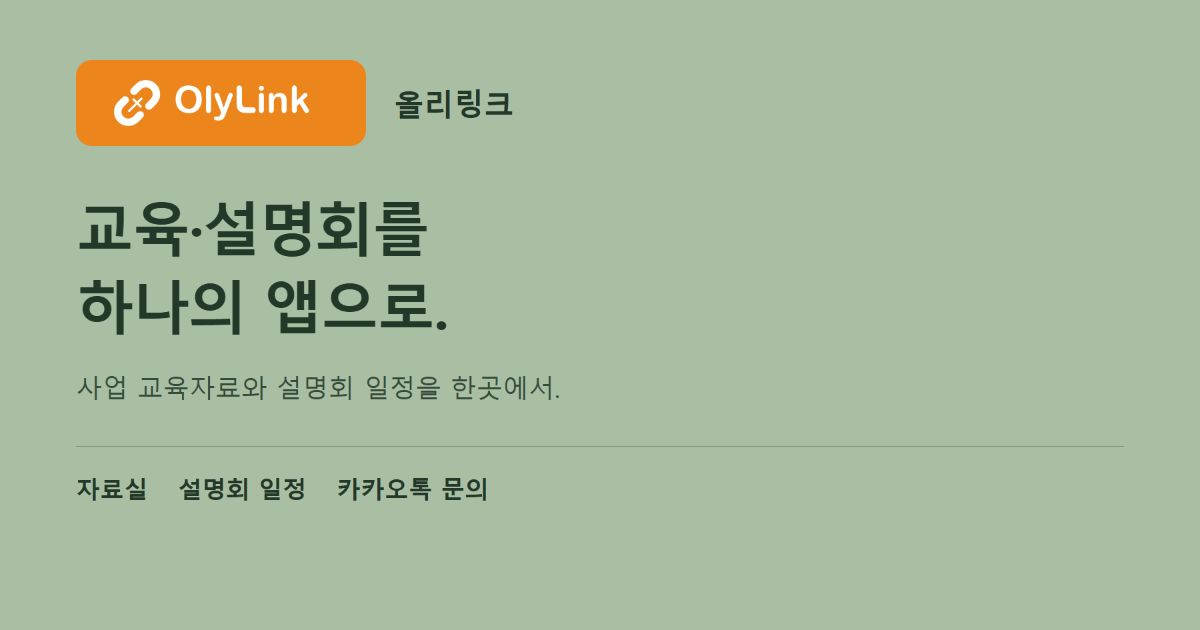
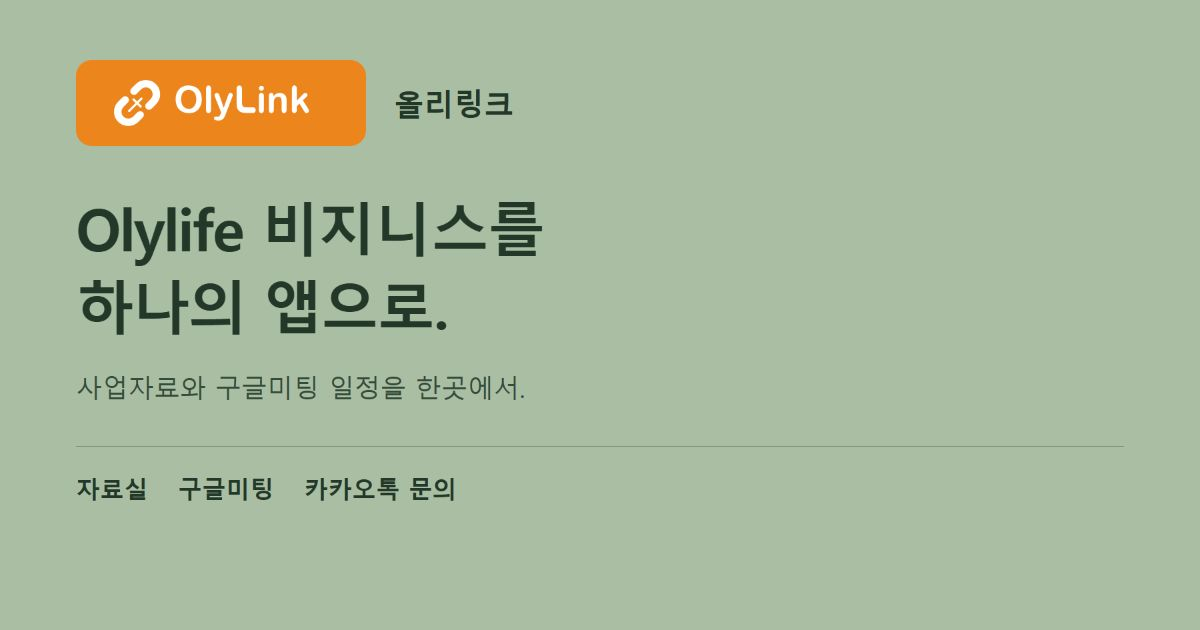
Fix Olylife sharing title and preview image
Match Open Graph metadata and the share image to the approved Olylife business heading. Add a fresh install sharing URL with a general-user APK download button and a new image URL. Keep the existing APK, database permissions, and other repository files unchanged.

Changed region(s): [[0.0617, 0.3016, 0.4625, 0.4222], [0.0925, 0.573, 0.4625, 0.6333], [0.1542, 0.754, 0.4008, 0.8143]]

diff --git a/install.html b/install.html
@@ -1,0 +1,264 @@
+<!doctype html><html lang="ko" prefix="og: https://ogp.me/ns#"><head>
+<meta charset="utf-8"><meta name="viewport" content="width=device-width,initial-scale=1">
+<meta name="application-name" content="OlyLINK"><meta name="apple-mobile-web-app-title" content="OlyLINK"><title>OlyLINK</title>
+<meta name="description" content="올리링크에서 Olylife 비지니스 자료와 구글미팅 일정을 살펴보세요. 카카오톡으로 궁금한 점을 문의할 수 있습니다.">
+<link rel="canonical" href="https://jeenyfca-sketch.github.io/olylifebiz/install.html">
+<meta property="og:type" content="website">
+<meta property="og:site_name" content="OlyLINK 올리링크">
+<meta property="og:title" content="OlyLINK 올리링크 | Olylife 비지니스를 하나의 앱으로.">
+<meta property="og:description" content="Olylife 비지니스 자료와 구글미팅 일정을 한곳에서. 자료를 살펴보고 카카오톡으로 문의하세요.">
+<meta property="og:url" content="https://jeenyfca-sketch.github.io/olylifebiz/install.html">
+<meta property="og:locale" content="ko_KR">
+<meta property="og:image" content="https://jeenyfca-sketch.github.io/olylifebiz/olylink-share-v2.jpg">
+<meta property="og:image:type" content="image/jpeg">
+<meta property="og:image:width" content="1200"><meta property="og:image:height" content="630">
+<meta property="og:image:alt" content="OlyLINK 올리링크. Olylife 비지니스를 하나의 앱으로. 자료실, 구글미팅, 카카오톡 문의.">
+<meta name="twitter:card" content="summary_large_image">
+<meta name="twitter:title" content="OlyLINK 올리링크 | Olylife 비지니스를 하나의 앱으로.">
+<meta name="twitter:description" content="Olylife 비지니스 자료와 구글미팅 일정을 한곳에서. 자료를 살펴보고 카카오톡으로 문의하세요.">
+<meta name="twitter:image" content="https://jeenyfca-sketch.github.io/olylifebiz/olylink-share-v2.jpg">
+<meta name="twitter:image:alt" content="OlyLINK 올리링크. Olylife 비지니스를 하나의 앱으로.">
+</head><body><div id="ulilife-preview">
+  <div class="ul-stage">
+    
+    <section class="ul-phone" aria-label="OlyLINK 올리링크 모바일 화면">
+      <header><div class="ul-brand-grid"><div class="ul-brand-group"><div class="ul-logo ul-brand"><img src="./olylink-logo.svg?v=7" alt="OlyLink 로고" width="1981" height="533"></div></div><div class="ul-brand-group"><div class="ul-logo"><img src="./olylife-display.svg" alt="OlyLife 로고" width="1981" height="533"></div></div>
+        <div class="ul-contact-actions">
+          <a class="ul-kakao-link ul-direct-inquiry" href="http://qr.kakao.com/talk/AiWINIcz6O_I_uFfPNyRaI.FqXY-" target="_blank" rel="noopener noreferrer">카카오톡 문의</a>
+          <button type="button" id="ul-kakao-qr-toggle" aria-expanded="false" aria-controls="ul-kakao-qr-panel">QR 보기</button>
+        </div>
+        <div id="ul-kakao-qr-panel" hidden>
+          <img class="ul-kakao-qr" src="./seean-kakao-qr.png" width="413" height="413" alt="카카오톡 문의 QR코드" loading="lazy">
+          <p>휴대폰 카메라로 QR코드를 스캔해 주세요.</p>
+        </div>
+      </div></header>
+      <nav class="ul-app-nav" aria-label="앱 메뉴">
+        <button type="button" data-section="home" aria-pressed="true">홈</button>
+        <button type="button" data-section="experiences" id="ul-cases-nav" hidden aria-pressed="false" aria-label="글로벌 체험 사례"><span>글로벌</span><br><span>체험 사례</span></button>
+        <button type="button" data-section="library" aria-pressed="false">자료실</button>
+        <button type="button" data-section="meetings" id="ul-meetings-nav" aria-pressed="false" aria-label="구글미팅">구글미팅</button>
+      <button type="button" data-section="admin" id="ul-admin-nav" hidden aria-pressed="false">자료 관리</button><button type="button" data-section="meeting-admin" id="ul-meeting-admin-nav" hidden aria-pressed="false" aria-label="구글 미팅 관리"><span>구글 미팅</span><br><span>관리</span></button></nav>
+      <main><label><span>언어</span><select id="ul-locale"><option value="ko">한국어</option><option value="en">English</option><option value="ja">日本語</option><option value="zh">中文</option></select></label>
+        <div data-panel="home">
+          <div class="ul-kicker">OlyLINK SYSTEM</div>
+          <h1 id="ul-home-title" class="ul-home-title">Olylife 비지니스를 하나의 앱으로.</h1>
+          <p class="ul-home-lead">찾아보고, 배우고, 공유하고.</p>
+          <p class="ul-home-intro">사업의 첫 만남부터 함께하는 앱, 올리링크.</p>
+          <a class="ul-kakao-link ul-home-cta" href="./olylink.apk" download="olylink.apk">안드로이드 앱 설치</a><p class="ul-sub">안드로이드 10 이상 · APK 파일 다운로드</p><section class="ul-start-guide" aria-labelledby="ul-start-title">
+            <h2 id="ul-start-title">처음 오셨나요?</h2>
+            <p>자료실에서 사업 소개를 살펴보세요. 설명회에 참여하거나 카카오톡으로 궁금한 점을 물어볼 수 있습니다.</p>
+            <button type="button" data-section="library" class="ul-primary">자료실부터 둘러보기</button>
+          </section>
+          <div class="ul-home-cards">
+            <button type="button" data-section="experiences" id="ul-home-cases" hidden class="ul-home-card"><span class="ul-home-icon" aria-hidden="true">🌐</span><span><strong>글로벌 체험 사례를 한눈에</strong><span class="ul-home-description">전 세계의 체험 이야기를 관심 주제별로.</span></span><span aria-hidden="true">›</span></button>
+            <button type="button" data-section="library" class="ul-home-card"><span class="ul-home-icon" aria-hidden="true">📚</span><span><strong>연구와 교육자료를 손안에</strong><span class="ul-home-description">연구논문·임상자료를 바탕으로 한 사업 교육자료까지.</span></span><span aria-hidden="true">›</span></button>
+            <button type="button" data-section="meetings" class="ul-home-card"><span class="ul-home-icon" aria-hidden="true">💻</span><span><strong>온라인 설명회도 앱에서</strong><span class="ul-home-description">일정을 확인하고 구글 미팅으로 바로 참여.</span></span><span aria-hidden="true">›</span></button>
+          </div>
+          <p class="ul-home-flow">앱으로 알아보고 → 톡으로 연결하고 → 함께 사업을 시작하세요.</p>
+        </div>
+        <div data-panel="library" hidden>
+          <div class="ul-kicker">배우고, 이해하고, 함께 성장하기</div>
+          <h2>자료실</h2>
+          <label class="ul-search"><i data-lucide="search" aria-hidden="true"></i><input id="ul-search" type="search" aria-label="제품명 또는 강의 제목 검색" placeholder="제품명 또는 강의 제목 검색"></label>
+          
+          <div class="ul-listhead"><span id="ul-count" aria-live="polite"></span></div>
+          <div id="ul-list"></div>
+          <section id="ul-detail" hidden aria-label="자료 상세"></section>
+        </div>
+        <div data-panel="meetings" hidden>
+          <div class="ul-kicker">함께 배우는 온라인 교육</div>
+          <h2>구글미팅</h2>
+          <div id="ul-meetings" aria-live="polite"></div>
+        </div>
+        <div data-panel="experiences" hidden>
+ <h2>글로벌 체험 사례</h2>
+ <div id="ul-case-tools" hidden>
+   <p class="ul-admin-note">관리자 전용 · 가져온 사례는 비공개로 저장됩니다.</p>
+   <label>사례 JSON 가져오기<input id="ul-case-import" type="file" accept=".json,application/json"></label>
+   <label id="ul-subtitle-catalog-label" hidden>자막 자료 등록 · 관리자 전용<input id="ul-subtitle-catalog-import" type="file" accept=".json,application/json"></label>
+   <label id="ul-subtitle-import-label" hidden>자막 영상 등록 · 관리자 전용<input id="ul-subtitle-media-import" type="file" accept="video/mp4,.mp4" multiple></label>
+   <p id="ul-subtitle-import-notice" role="status"></p>
+   <button id="ul-case-new" type="button">새 사례 등록</button>
+   <form id="ul-case-form" hidden>
+     <h3>사례 등록·수정</h3>
+     <label>제목<input name="title" required maxlength="300"></label>
+     <label>한국어 요약<textarea name="summary" rows="5" maxlength="20000" required></textarea></label>
+     <label>국가<input name="country" maxlength="100"></label>
+     <label>원문 언어<input name="language" maxlength="100"></label>
+     <label>주제 (쉼표로 구분)<input name="categories" maxlength="3000"></label>
+     <label>자료 유형<select name="media_type"><option value="video">영상 있음</option><option value="document">글 자료</option></select></label>
+     <label>원문 링크<input name="url" type="url" maxlength="2000"></label>
+     <label>영상 링크<input name="video_url" type="url" maxlength="2000"></label>
+     <label>확인 상태<textarea name="review_status" rows="2" maxlength="2000"></textarea></label>
+     <label>공개 범위<select name="visibility"><option value="admin">비공개 · 관리자만</option><option value="public">공개 · 누구나</option></select></label>
+     <p class="ul-sub">공개로 저장하면 요약과 원문 링크가 일반 이용자에게 표시됩니다.</p>
+     <button type="submit">사례 저장</button><button id="ul-case-cancel" type="button">닫기</button>
+   </form>
+   <p id="ul-case-notice" role="status"></p>
+   <label>공개 범위 필터<select id="ul-case-visibility"><option value="">전체</option><option value="admin">관리자 전용</option><option value="public">공개</option></select></label>
+ </div>
+ <div id="ul-experience-categories" class="ul-category-filter" role="group" aria-label="사례 분류"></div>
+ <div id="ul-case-curation" hidden>
+   <p id="ul-case-curation-summary" class="ul-sub" aria-live="polite"></p>
+   <label id="ul-case-curation-label">자료 선택<select id="ul-case-curation-view"><option value="representative">대표 보기</option><option value="candidate">후보 보기</option><option value="all">전체 보기</option></select></label>
+ </div>
+ <label>자료 유형<select id="ul-case-media"><option value="">전체</option><option value="video">영상 있음</option><option value="document">글 자료</option></select></label>
+ <p id="ul-case-count" class="ul-sub" aria-live="polite"></p>
+ <label><span>사례 검색</span><input id="ul-experience-search" type="search" placeholder="제목·국가·요약 검색"></label>
+ <div class="ul-filters"><label><span>국가</span><select id="ul-experience-country"><option value="">전체 국가</option></select></label><label><span>원문 언어</span><select id="ul-experience-language"><option value="">전체 언어</option></select></label></div>
+ <div id="ul-experience-list" aria-live="polite"></div>
+ </div><div data-panel="auth" hidden>
+ <h2 id="ul-auth-title">관리자 로그인</h2>
+ <p id="ul-auth-description" class="ul-sub"></p>
+ <button id="ul-google-login" class="ul-google-login" type="button" hidden>Google 계정으로 로그인</button>
+ <p id="ul-google-help" class="ul-sub" hidden></p>
+ <form id="ul-auth-form"><label id="ul-email-label" hidden>이메일<input name="email" type="email" autocomplete="username"></label><label>비밀번호<input name="password" type="password" minlength="10" maxlength="128" autocomplete="current-password" required></label>
+ <button type="submit" class="ul-primary" id="ul-auth-submit">로그인</button></form>
+ <div id="ul-auth-notice" role="alert"></div></div>
+ <div data-panel="admin" hidden>
+          <div class="ul-kicker">관리자 전용</div><h2>자료 관리</h2><p class="ul-sub">자료를 등록하고 내용을 수정합니다.</p><button id="ul-import-local" type="button" hidden>기존 자료·미팅 가져오기</button><p id="ul-import-notice" role="status"></p>
+          
+          <form id="ul-form">
+            <h3 id="ul-form-title">새 자료 등록</h3>
+            <label>자료 제목<input name="title" required maxlength="100" placeholder="예: 비지니스 플랜"></label>
+            <label>언어<select name="language"><option value="한국어">한국어</option><option value="English">English</option><option value="日本語">日本語</option><option value="中文">中文</option></select></label>
+            <label>자료 설명<textarea name="description" rows="2" placeholder="어떤 내용을 담은 자료인가요?"></textarea></label>
+            <label>출처·근거 범위<textarea name="source" rows="2" placeholder="논문 출처와 설명 범위를 입력하세요."></textarea></label>
+            <label>자료 파일<input name="file" type="file" accept=".pdf,application/pdf"></label>
+            <div id="ul-file-label" class="ul-sub">PDF 최대 15MB · 이 컴퓨터에 저장합니다.</div>
+            <div class="ul-actions"><button class="ul-primary" type="submit" id="ul-save">등록하기</button><button type="button" id="ul-cancel" hidden>수정 취소</button></div>
+          </form>
+          <div id="ul-notice" role="status" aria-live="polite"></div>
+          <h3>등록된 자료</h3><div id="ul-admin-list"></div>
+        </div>
+        <div data-panel="meeting-admin" hidden>
+          <h2>구글 미팅 관리</h2>
+          <form id="ul-meeting-form">
+            <h3 id="ul-meeting-form-title">새 미팅 등록</h3>
+            <label>모임 제목<input name="title" required maxlength="200" placeholder="예: 비즈니스 플랜 설명회"></label>
+            <label>날짜·시간 (한국 기준)<input name="starts" type="datetime-local" required></label>
+            <label>진행 언어<select name="language"><option value="한국어">한국어</option><option value="English">English</option><option value="日本語">日本語</option><option value="中文">中文</option></select></label>
+            <label>구글 미트 참여 링크<input name="link" type="text" inputmode="url" autocapitalize="none" spellcheck="false" maxlength="500" placeholder="meet.google.com/abc-defg-hij"></label>
+            <p class="ul-sub">주소나 회의 코드만 붙여넣으세요. https://는 자동으로 추가됩니다.</p>
+            <p class="ul-sub">링크가 없으면 비워두세요. 나중에 수정할 수 있습니다.</p>
+            <div class="ul-actions"><button type="submit" class="ul-primary" id="ul-meeting-save">등록하기</button><button type="button" id="ul-meeting-cancel" hidden>수정 취소</button></div>
+          </form>
+          <div id="ul-meeting-notice" role="status" aria-live="polite"></div>
+          <h3>등록된 미팅</h3><div id="ul-meeting-admin-list"></div>
+        </div>
+      </main>
+      <footer hidden><button id="ul-user-login" type="button" hidden>로그인</button><button id="ul-login" type="button" hidden>관리자 로그인</button><button id="ul-logout" type="button" hidden>로그아웃</button></footer>
+      <p class="ul-policy-link"><a href="./privacy.html" target="_blank" rel="noopener noreferrer">개인정보 안내</a></p>
+    </section>
+  </div>
+</div>
+<style>
+#ulilife-preview {padding:20px 0;color-scheme:light;font-family:system-ui,'Malgun Gothic',sans-serif;--ul-bg:#a9bea2;--ul-paper:#f8fbf5;--ul-text:#24382a;--ul-muted:#354c3b;--ul-line:#c5d3bf;--ul-green:#2e4934;--ul-on:#ffffff;--ul-soft:#dce8d5;--ul-orange:#f4bf7b;--ul-orange-ink:#3b2b17;--ul-orange-soft:#fff0db;--ul-orange-text:#775022;--ul-radius:18px}
+#ulilife-preview * {box-sizing:border-box}
+#ulilife-preview [hidden] {display:none!important}
+#ulilife-preview .ul-stage {max-width:430px;margin:0 auto;padding:0 12px}
+#ulilife-preview .ul-switch {display:flex;gap:8px;margin-bottom:14px;flex-wrap:wrap}
+#ulilife-preview button {font:inherit;cursor:inherit;min-height:44px;border:1px solid var(--ul-line);border-radius:12px;padding:10px 14px;background:var(--ul-paper);color:var(--ul-text)}
+#ulilife-preview .ul-switch button {flex:1}
+#ulilife-preview .ul-app-nav {display:flex;gap:8px;padding:12px 18px;background:var(--ul-paper);border-bottom:1px solid var(--ul-line)}
+#ulilife-preview .ul-app-nav button {flex:1;min-width:0;font-size:14px}
+#ulilife-preview .ul-app-nav [aria-pressed=true] {background:var(--ul-orange);color:var(--ul-orange-ink);border-color:var(--ul-orange)}
+#ulilife-preview button:disabled {opacity:.65;cursor:default}
+#ulilife-preview .ul-meeting {margin-top:18px}
+#ulilife-preview .ul-schedule-heading {margin:24px 0 12px;line-height:1.5}
+#ulilife-preview .ul-past-meetings {margin-top:24px;border-top:1px solid var(--ul-line);padding-top:12px}
+#ulilife-preview .ul-past-meetings summary {min-height:44px;padding:12px 0;color:var(--ul-text);font-size:14px;cursor:pointer}
+#ulilife-preview .ul-past-meetings summary:focus-visible {outline:3px solid var(--ul-green);outline-offset:3px}
+#ulilife-preview .ul-switch [aria-pressed=true],#ulilife-preview .ul-primary {background:var(--ul-orange);color:var(--ul-orange-ink);border-color:var(--ul-orange)}
+#ulilife-preview .ul-phone {background:var(--ul-bg);color:var(--ul-text);border:1px solid var(--ul-line);border-radius:var(--ul-radius);overflow:hidden}
+#ulilife-preview header {padding:22px 20px 18px;border-bottom:1px solid var(--ul-line);background:var(--ul-paper)}
+#ulilife-preview .ul-logo {display:flex;align-items:center;justify-content:center;width:100%;height:60px;padding:8px 10px;margin:0;background:#8da68b;border-radius:12px}
+#ulilife-preview .ul-logo img {display:block;width:100%;height:100%;max-width:100%;max-height:100%;object-fit:contain}
+#ulilife-preview .ul-brand {margin-bottom:0;background:#ed851d}
+#ulilife-preview .ul-wordmark {display:inline-flex;align-items:center;justify-content:center;flex:1;height:28px;border:1.5px solid currentColor;border-radius:999px;font-size:22px;font-weight:600;line-height:1;letter-spacing:-.6px;padding:0 7px;}
+#ulilife-preview .ul-owner {margin-top:6px;font-size:12px;color:var(--ul-muted)}
+#ulilife-preview main {padding:22px 18px}
+#ulilife-preview h2 {font-size:26px;margin:7px 0 6px;letter-spacing:-1px}
+#ulilife-preview h3 {font-size:16px;margin:0 0 16px}
+#ulilife-preview .ul-kicker {font-size:12px;color:var(--ul-green)}
+#ulilife-preview .ul-sub {font-size:12px;color:var(--ul-muted);margin:0 0 18px;line-height:1.6}
+#ulilife-preview label {display:block;font-size:12px;color:var(--ul-muted);margin-bottom:14px}
+#ulilife-preview input,#ulilife-preview select,#ulilife-preview textarea {display:block;width:100%;min-width:0;font:inherit;font-size:16px;color:var(--ul-text);background:var(--ul-paper);border:1px solid var(--ul-line);padding:12px;border-radius:10px;margin-top:6px}
+#ulilife-preview input::placeholder,#ulilife-preview textarea::placeholder {color:var(--ul-muted);opacity:1}
+#ulilife-preview textarea {resize:vertical}
+#ulilife-preview .ul-search {position:relative;margin-top:22px}
+#ulilife-preview .ul-search i,#ulilife-preview .ul-search svg {position:absolute;left:12px;top:15px;width:18px;height:18px}
+#ulilife-preview .ul-search input {padding-left:40px;font-size:14px;min-height:48px}
+#ulilife-preview .ul-filters {display:grid;grid-template-columns:1fr 1fr;gap:10px}
+#ulilife-preview .ul-listhead {display:flex;justify-content:space-between;font-size:12px;color:var(--ul-muted);margin:10px 0 14px}
+#ulilife-preview .ul-item {background:var(--ul-paper);padding:16px;margin-bottom:12px;border-radius:var(--ul-radius);border:1px solid var(--ul-line)}
+#ulilife-preview .ul-item h3 {margin:8px 0;font-size:16px;line-height:1.5;overflow-wrap:anywhere}
+#ulilife-preview .ul-category-filter {display:flex;flex-wrap:wrap;gap:8px;margin:16px 0;}
+#ulilife-preview .ul-category-filter button {min-height:40px;padding:8px 12px;font-size:13px;}
+#ulilife-preview .ul-category-filter [aria-pressed="true"] {background:var(--ul-orange);border-color:var(--ul-orange);color:var(--ul-orange-ink);}
+#ulilife-preview .ul-case-summary {font-size:14px;line-height:1.75;white-space:pre-line;overflow-wrap:anywhere;}
+#ulilife-preview .ul-meta {font-size:12px;color:var(--ul-muted);line-height:1.6;overflow-wrap:anywhere}
+#ulilife-preview .ul-tag {font-size:11px;display:inline-block;background:var(--ul-orange);padding:4px 7px;border-radius:6px;color:var(--ul-orange-ink)}
+#ulilife-preview .ul-item button {width:100%;margin-top:14px;text-align:center;background:var(--ul-orange);color:var(--ul-orange-ink);border-color:var(--ul-orange)}
+#ulilife-preview .ul-admin-note {padding:10px 12px;background:var(--ul-soft);font-size:12px;border-radius:10px;margin-bottom:18px}
+#ulilife-preview form {background:var(--ul-paper);border:1px solid var(--ul-line);border-radius:var(--ul-radius);padding:16px;margin-bottom:16px}
+#ulilife-preview .ul-actions {display:flex;gap:8px;flex-wrap:wrap}
+#ulilife-preview .ul-actions button {flex:1}
+#ulilife-preview #ul-notice {font-size:13px;line-height:1.6;margin-bottom:16px;color:var(--ul-green)}
+#ulilife-preview #ul-detail {border-top:1px solid var(--ul-line);padding-top:20px;margin-top:24px;overflow-wrap:anywhere}
+#ulilife-preview #ul-detail p {font-size:14px;line-height:1.7}
+#ulilife-preview footer {display:flex;flex-wrap:wrap;justify-content:space-between;gap:8px;padding:16px 18px;background:var(--ul-paper);border-top:1px solid var(--ul-line);font-size:11px;color:var(--ul-muted)}
+#ulilife-preview .ul-vector-mark {display:inline-block;width:22px;height:22px;flex:0 0 22px;background-color:var(--ul-orange);mask-image:url("./mark.svg");mask-size:contain;mask-repeat:no-repeat;mask-position:center;}
+#ulilife-preview .ul-brand-grid {display:grid;grid-template-columns:minmax(0,1fr) minmax(0,1fr);align-items:start;gap:12px;}
+#ulilife-preview .ul-brand-group {min-width:0;}
+#ulilife-preview .ul-brand-caption {display:flex;flex-direction:column;justify-content:center;min-height:44px;margin-top:8px;text-align:center;font-size:12px;font-weight:600;line-height:1.5;letter-spacing:.2px;color:var(--ul-muted);}
+
+#ulilife-preview .ul-contact-actions {grid-column:1/-1;display:grid;grid-template-columns:minmax(0,1fr) minmax(0,1fr);gap:12px}
+#ulilife-preview header .ul-direct-inquiry {display:flex;align-items:center;justify-content:center;width:100%;min-height:44px;margin:0;font-size:13px;font-weight:600;line-height:1.4;padding:8px 12px;}
+#ulilife-preview #ul-kakao-qr-toggle {width:100%;min-width:0;min-height:44px;padding:8px 10px;font-size:13px;line-height:1.4;font-weight:600}
+#ulilife-preview #ul-kakao-qr-toggle[aria-expanded=true] {background:var(--ul-soft)}
+#ulilife-preview #ul-kakao-qr-toggle:focus-visible {outline:3px solid var(--ul-green);outline-offset:3px}
+#ulilife-preview #ul-kakao-qr-panel {grid-column:1/-1;background:var(--ul-paper);border:1px solid var(--ul-line);border-radius:12px;padding:0 12px 12px;text-align:center}
+#ulilife-preview #ul-kakao-qr-panel p {font-size:12px;line-height:1.6;margin:0;color:var(--ul-muted);overflow-wrap:anywhere}
+#ulilife-preview #ul-inquiry-panel {padding:16px;background:var(--ul-soft);border-radius:12px;margin-bottom:16px;}
+#ulilife-preview #ul-inquiry-panel p {font-size:13px;line-height:1.6;}
+#ulilife-preview #ul-inquiry-panel button {width:100%;}
+#ulilife-preview .ul-kakao-link {display:block;padding:12px 14px;text-align:center;text-decoration:none;min-height:44px;border-radius:12px;background:var(--ul-orange);color:var(--ul-orange-ink);font-size:14px;}
+#ulilife-preview .ul-item > .ul-kakao-link {margin-top:12px;font:inherit;}
+#ulilife-preview .ul-kakao-qr {display:block;width:min(220px,100%);height:auto;margin:18px auto;image-rendering:crisp-edges;}
+#ulilife-preview footer button {padding:4px 8px;font-size:12px;min-height:36px;}
+#ulilife-preview .ul-app-nav {flex-wrap:wrap;}
+#ulilife-preview .ul-app-nav button {flex:1 1 calc((100% - 24px)/4);min-width:0;padding:10px 6px;font-size:13px;line-height:1.4;}
+#ulilife-preview .ul-auth-error {color:#8c2525;}
+#ulilife-preview .ul-google-login {width:100%;min-height:44px;background:#fff;color:#1f1f1f;border:1px solid #747775;margin:0 0 12px;font-weight:600;}
+#ulilife-preview .ul-policy-link {margin:0;padding:10px 18px;text-align:center;font-size:12px;}
+#ulilife-preview .ul-policy-link a {color:var(--ul-muted);}
+#ulilife-preview input:disabled {opacity:.6;}
+#ulilife-preview .ul-home-title {font-size:28px;line-height:1.35;letter-spacing:-1px;margin:12px 0 14px;text-wrap:balance;word-break:keep-all;}
+#ulilife-preview .ul-home-lead {font-size:15px;margin:0 0 8px;line-height:1.6;}
+#ulilife-preview .ul-home-intro {font-size:14px;line-height:1.7;margin:0 0 22px;font-weight:600;}
+#ulilife-preview .ul-start-guide {margin:0 0 24px;padding:0 0 24px;border-bottom:1px solid var(--ul-line)}
+#ulilife-preview .ul-start-guide h2 {font-size:18px;letter-spacing:0;line-height:1.5;margin:0 0 8px}
+#ulilife-preview .ul-start-guide p {font-size:14px;line-height:1.7;margin:0 0 14px;word-break:keep-all;overflow-wrap:anywhere}
+#ulilife-preview .ul-start-guide button {width:100%;font-size:14px;font-weight:600}
+#ulilife-preview .ul-material-inquiry {margin-top:24px;padding-top:18px;border-top:1px solid var(--ul-line)}
+#ulilife-preview .ul-material-inquiry .ul-kakao-link {font-size:14px;font-weight:600}
+#ulilife-preview .ul-start-guide button:focus-visible,#ulilife-preview .ul-kakao-link:focus-visible {outline:3px solid var(--ul-green);outline-offset:3px}
+#ulilife-preview .ul-home-cards {display:grid;gap:10px;}
+#ulilife-preview .ul-home-card {display:grid;grid-template-columns:28px minmax(0,1fr) 10px;gap:10px;align-items:center;width:100%;padding:16px 12px;border-radius:14px;background:var(--ul-paper);color:var(--ul-text);border:1px solid var(--ul-line);text-align:left;text-decoration:none;}
+#ulilife-preview .ul-home-card strong {display:block;font-size:15px;line-height:1.5;}
+#ulilife-preview .ul-home-icon {font-size:23px;}
+#ulilife-preview .ul-home-description {display:block;font-size:13px;line-height:1.65;margin-top:5px;color:var(--ul-muted);word-break:keep-all;overflow-wrap:anywhere;}
+#ulilife-preview .ul-home-flow {font-size:14px;line-height:1.8;font-weight:600;margin:24px 0 12px;text-align:center;text-wrap:balance;}
+#ulilife-preview .ul-home-signature {font-size:13px;text-align:center;margin:0 0 16px;color:var(--ul-muted);}
+#ulilife-preview .ul-home-cta {font-weight:700;}
+#ulilife-preview .ul-home-card:focus-visible,#ulilife-preview .ul-home-cta:focus-visible {outline:3px solid var(--ul-green);outline-offset:3px;}
+#ulilife-preview .ul-material-videos {margin-top:24px;border-top:1px solid var(--ul-line);padding-top:18px}
+#ulilife-preview .ul-material-videos h4 {font-size:16px;line-height:1.6;margin:0 0 10px;overflow-wrap:anywhere}
+#ulilife-preview .ul-material-video {margin-top:14px;padding:16px;border:1px solid var(--ul-line);border-radius:12px;background:#fff}
+#ulilife-preview .ul-material-video > p {font-size:13px;line-height:1.8;overflow-wrap:anywhere}
+#ulilife-preview .ul-material-video .ul-material-original {font-size:12px;color:var(--ul-muted);margin:12px 0}
+#ulilife-preview .ul-material-video .ul-meta {font-size:11px}
+</style>
+
+<script src="./cloud.js?v=184a5203bb9a"></script><script src="./app.js?v=e903286bfcf5"></script></body></html>

diff --git a/index.html b/index.html
@@ -1,23 +1,23 @@
 <!doctype html><html lang="ko" prefix="og: https://ogp.me/ns#"><head>
 <meta charset="utf-8"><meta name="viewport" content="width=device-width,initial-scale=1">
 <meta name="application-name" content="OlyLINK"><meta name="apple-mobile-web-app-title" content="OlyLINK"><title>OlyLINK</title>
-<meta name="description" content="올리링크에서 사업 교육자료와 설명회 일정을 살펴보세요. 자료를 읽고 카카오톡으로 궁금한 점을 문의할 수 있습니다.">
+<meta name="description" content="올리링크에서 Olylife 비지니스 자료와 구글미팅 일정을 살펴보세요. 카카오톡으로 궁금한 점을 문의할 수 있습니다.">
 <link rel="canonical" href="https://jeenyfca-sketch.github.io/olylifebiz/">
 <meta property="og:type" content="website">
 <meta property="og:site_name" content="OlyLINK 올리링크">
-<meta property="og:title" content="OlyLINK 올리링크 | 교육·설명회를 하나의 앱으로">
-<meta property="og:description" content="사업 교육자료와 설명회 일정을 한곳에서. 자료를 살펴보고 카카오톡으로 문의하세요.">
+<meta property="og:title" content="OlyLINK 올리링크 | Olylife 비지니스를 하나의 앱으로.">
+<meta property="og:description" content="Olylife 비지니스 자료와 구글미팅 일정을 한곳에서. 자료를 살펴보고 카카오톡으로 문의하세요.">
 <meta property="og:url" content="https://jeenyfca-sketch.github.io/olylifebiz/">
 <meta property="og:locale" content="ko_KR">
-<meta property="og:image" content="https://jeenyfca-sketch.github.io/olylifebiz/olylink-share.jpg?v=20261018">
+<meta property="og:image" content="https://jeenyfca-sketch.github.io/olylifebiz/olylink-share-v2.jpg">
 <meta property="og:image:type" content="image/jpeg">
 <meta property="og:image:width" content="1200"><meta property="og:image:height" content="630">
-<meta property="og:image:alt" content="OlyLINK 올리링크. 교육·설명회를 하나의 앱으로. 자료실, 설명회 일정, 카카오톡 문의.">
+<meta property="og:image:alt" content="OlyLINK 올리링크. Olylife 비지니스를 하나의 앱으로. 자료실, 구글미팅, 카카오톡 문의.">
 <meta name="twitter:card" content="summary_large_image">
-<meta name="twitter:title" content="OlyLINK 올리링크 | 교육·설명회를 하나의 앱으로">
-<meta name="twitter:description" content="사업 교육자료와 설명회 일정을 한곳에서. 자료를 살펴보고 카카오톡으로 문의하세요.">
-<meta name="twitter:image" content="https://jeenyfca-sketch.github.io/olylifebiz/olylink-share.jpg?v=20261018">
-<meta name="twitter:image:alt" content="OlyLINK 올리링크. 교육·설명회를 하나의 앱으로.">
+<meta name="twitter:title" content="OlyLINK 올리링크 | Olylife 비지니스를 하나의 앱으로.">
+<meta name="twitter:description" content="Olylife 비지니스 자료와 구글미팅 일정을 한곳에서. 자료를 살펴보고 카카오톡으로 문의하세요.">
+<meta name="twitter:image" content="https://jeenyfca-sketch.github.io/olylifebiz/olylink-share-v2.jpg">
+<meta name="twitter:image:alt" content="OlyLINK 올리링크. Olylife 비지니스를 하나의 앱으로.">
 </head><body><div id="ulilife-preview">
   <div class="ul-stage">
     
@@ -261,4 +261,4 @@
 #ulilife-preview .ul-material-video .ul-meta {font-size:11px}
 </style>
 
-<script src="./cloud.js?v=184a5203bb9a"></script><script src="./app.js?v=92d59ddbace8"></script></body></html>
+<script src="./cloud.js?v=184a5203bb9a"></script><script src="./app.js?v=e903286bfcf5"></script></body></html>

diff --git a/app.js b/app.js
@@ -16,6 +16,8 @@ const adminMode = new URLSearchParams(location.search).get('admin') === '1';
 const root=document.getElementById('ulilife-preview'), $=s=>root.querySelector(s);
 const inquiryUrl = $('.ul-direct-inquiry').href;
 const translations={
+ '안드로이드 앱 설치':['Install Android app','Androidアプリをインストール','安装安卓应用'],
+ '안드로이드 10 이상 · APK 파일 다운로드':['Android 10 or later · Download APK','Android 10以降 · APKをダウンロード','安卓10及以上 · 下载APK文件'],
  'QR 보기':['Show QR','QRを表示','显示二维码'],
  'QR 닫기':['Close QR','QRを閉じる','关闭二维码'],
  '카카오톡 문의 QR코드':['KakaoTalk contact QR code','カカオトークお問い合わせ用QRコード','KakaoTalk咨询二维码'],
